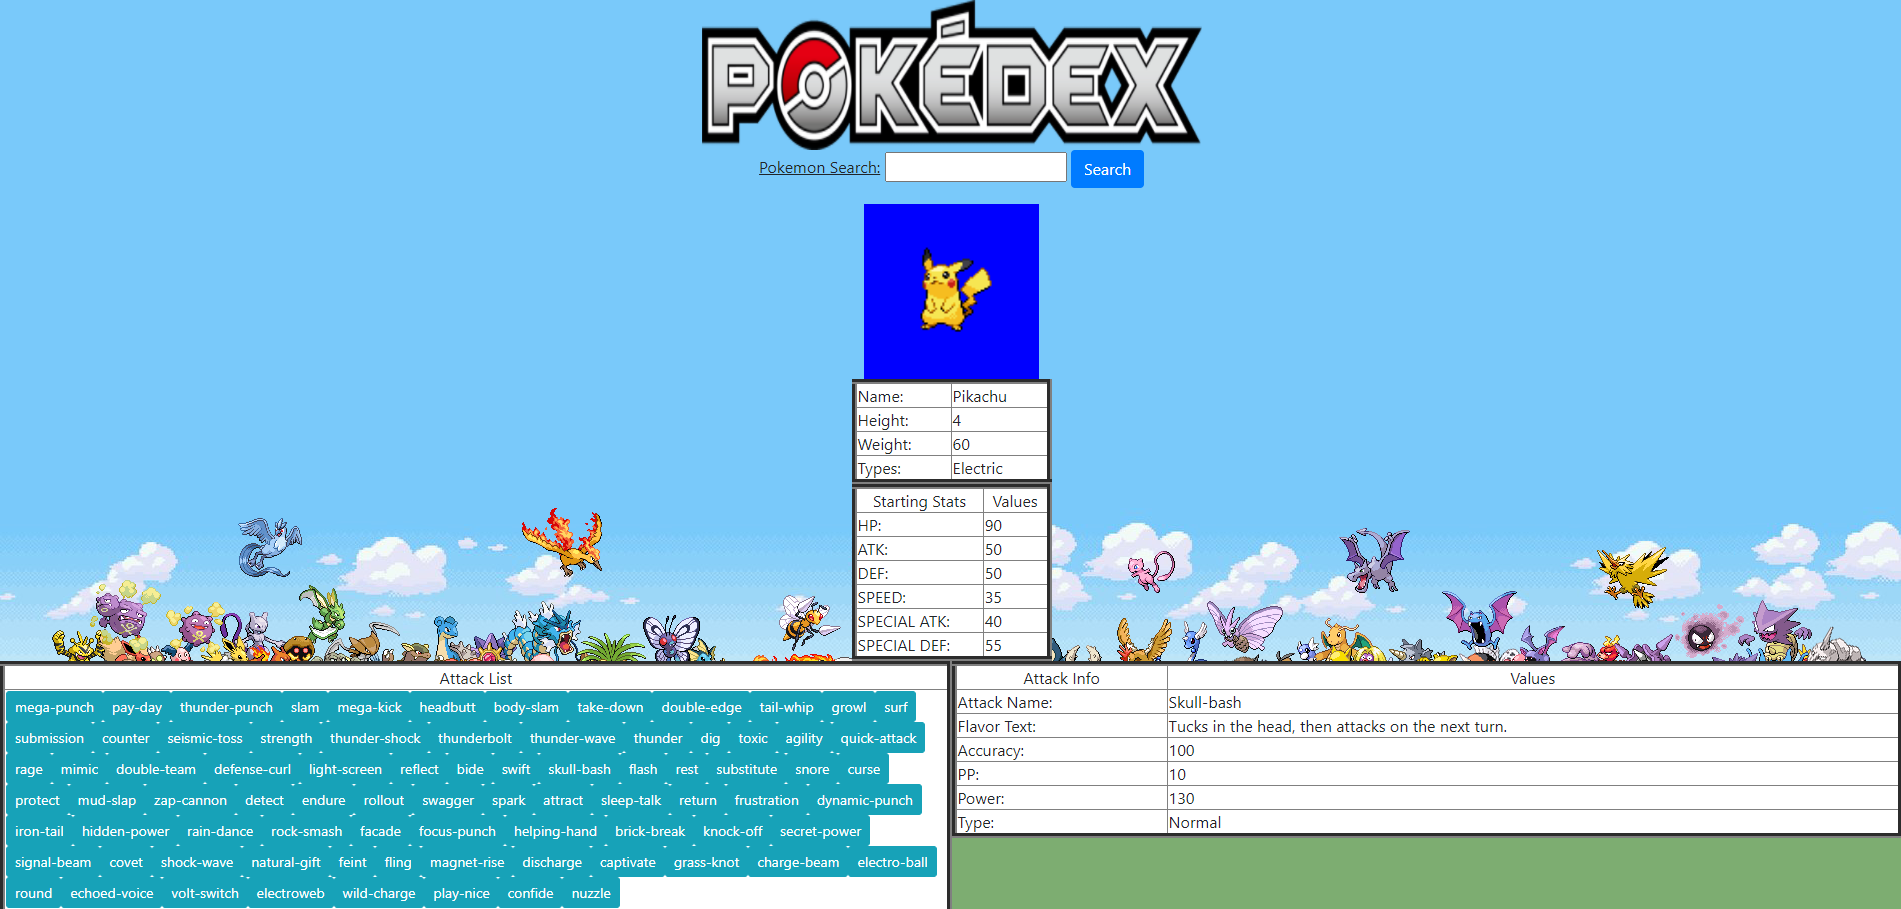
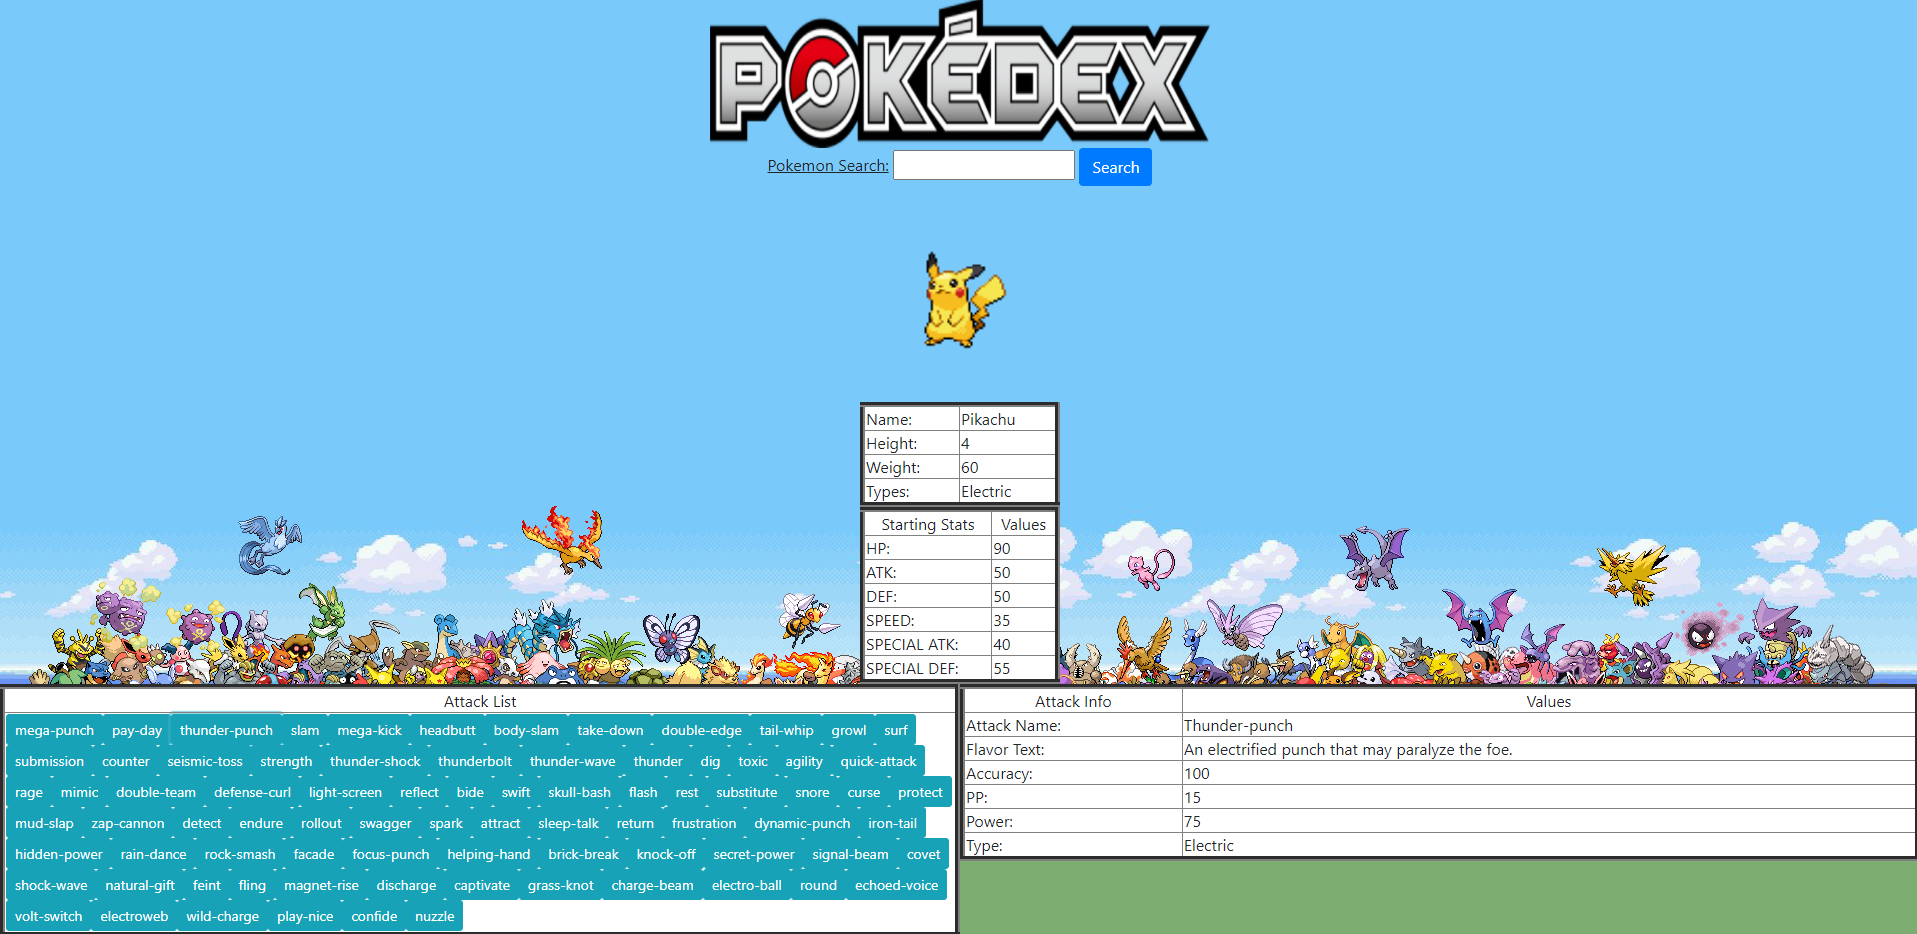
Changed picture background, updated screenshot

Changed region(s): [[0.0, 0.0, 1.0, 1.0]]

diff --git a/index.html b/index.html
@@ -21,7 +21,7 @@
                 <input type='submit' id='link' value='Search' class="btn btn-primary">
             </form>
             <script src = "pokedex.js"></script>
-                <img id="img_url" src=. height="175" width="175" border="5px" style="background-color: blue;">
+                <img id="img_url" src=. height="200" width="200">
                 <table border="5px" width = "200" style = "background-color: white;">
                     <tbody>
                         <tr><td>Name:</td><td id="name">.</td></tr>
